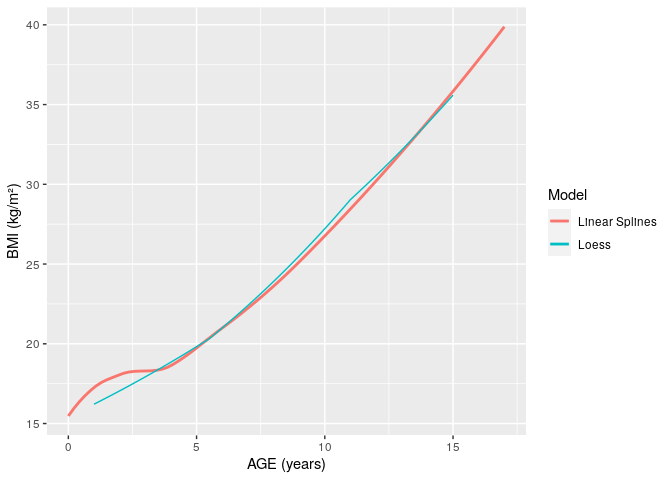
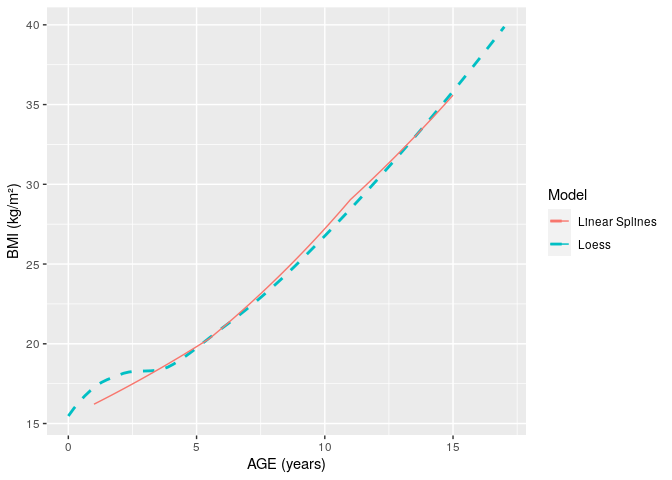
fix legend

diff --git a/README.md b/README.md
@@ -151,15 +151,15 @@ ggplot() +
   aes(x = age, y = bmi) +
   stat_smooth(
     data = bmigrowth[bmigrowth$sex == 0, ], 
-    mapping = aes(colour = "Linear Splines"),
-    method = "loess", formula = y ~ x, linetype = 1, se = FALSE
+    mapping = aes(colour = "Loess"),
+    method = "loess", formula = y ~ x, linetype = 2, se = FALSE
   ) +
   geom_path(
     data = data.table(age = seq(1, 15, 0.1))[, 
       bmi := exp(predict(ls_mod, .SD, level = 0)), 
       .SDcols = "age"
     ],
-    mapping = aes(colour = "Loess"),
+    mapping = aes(colour = "Linear Splines"),
   ) +
   labs(x = "AGE (years)", y = "BMI (kg/m²)", colour = "Model")
 ```
